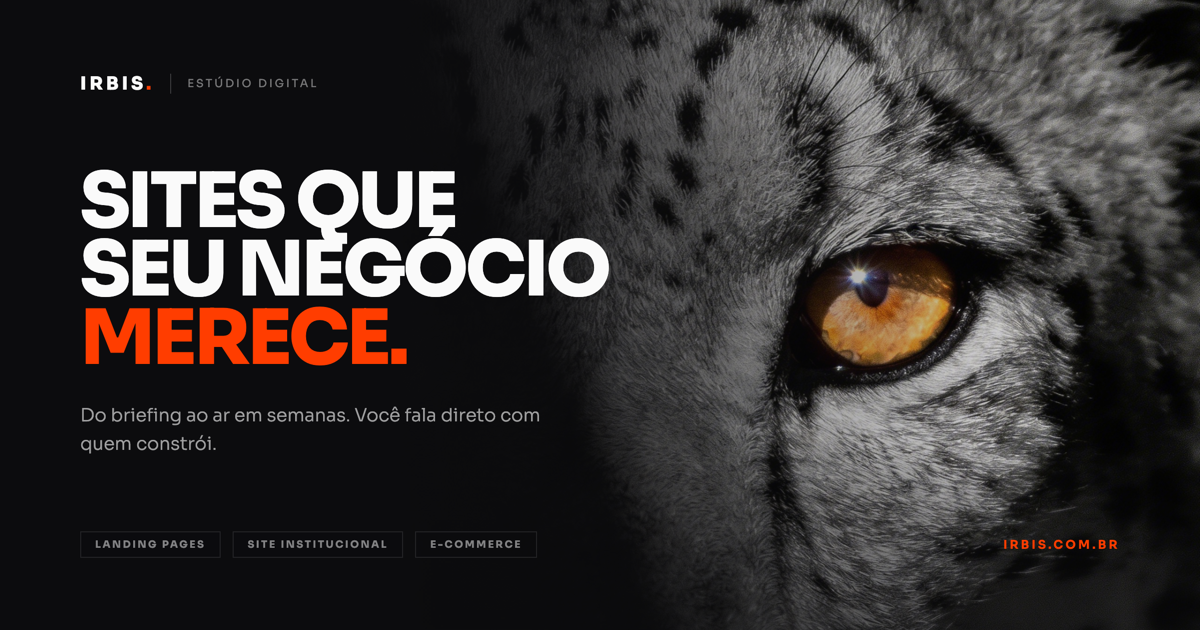
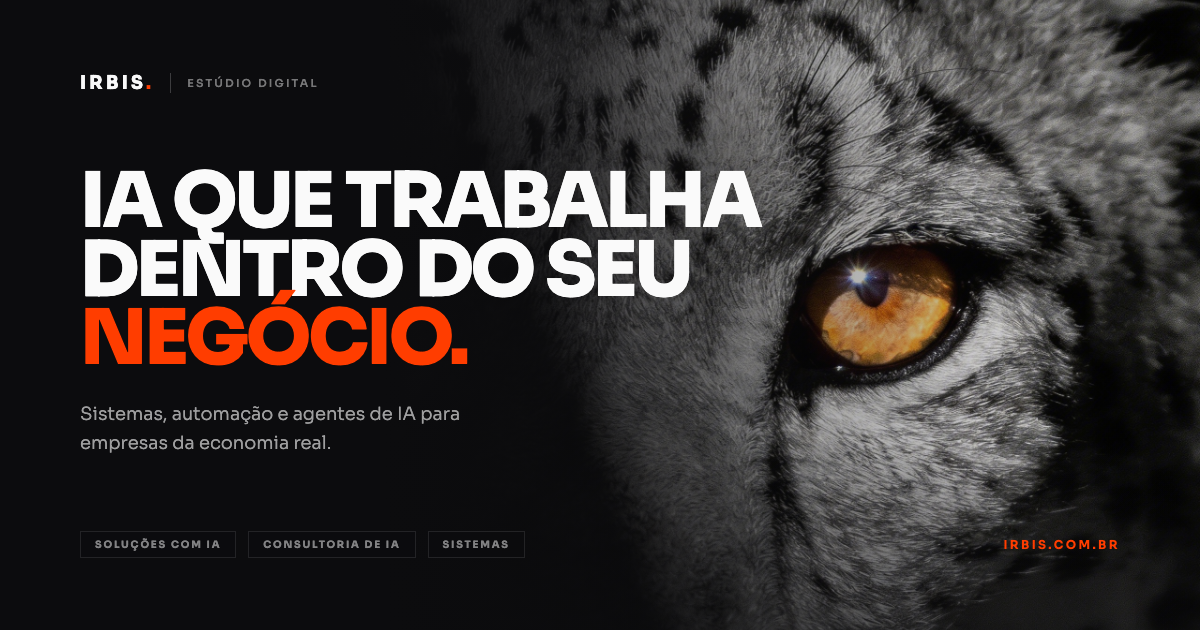
feat(og): og-image pos-pivot 'IA que trabalha dentro do seu negocio'; substitui slogan e tags de sites

diff --git a/site/Design/og-image.html b/site/Design/og-image.html
@@ -145,16 +145,16 @@
 
   <div class="center">
     <h1 class="headline">
-      Sites que<br>seu negócio<br><span class="acc">merece.</span>
+      IA que trabalha<br>dentro do seu<br><span class="acc">negócio.</span>
     </h1>
-    <p class="sub">Do briefing ao ar em semanas. Você fala direto com quem constrói.</p>
+    <p class="sub">Sistemas, automação e agentes de IA para empresas da economia real.</p>
   </div>
 
   <div class="bottom">
     <div class="services">
-      <span class="service-tag">Landing Pages</span>
-      <span class="service-tag">Site Institucional</span>
-      <span class="service-tag">E-commerce</span>
+      <span class="service-tag">Soluções com IA</span>
+      <span class="service-tag">Consultoria de IA</span>
+      <span class="service-tag">Sistemas</span>
     </div>
     <span class="cta">irbis.com.br</span>
   </div>
